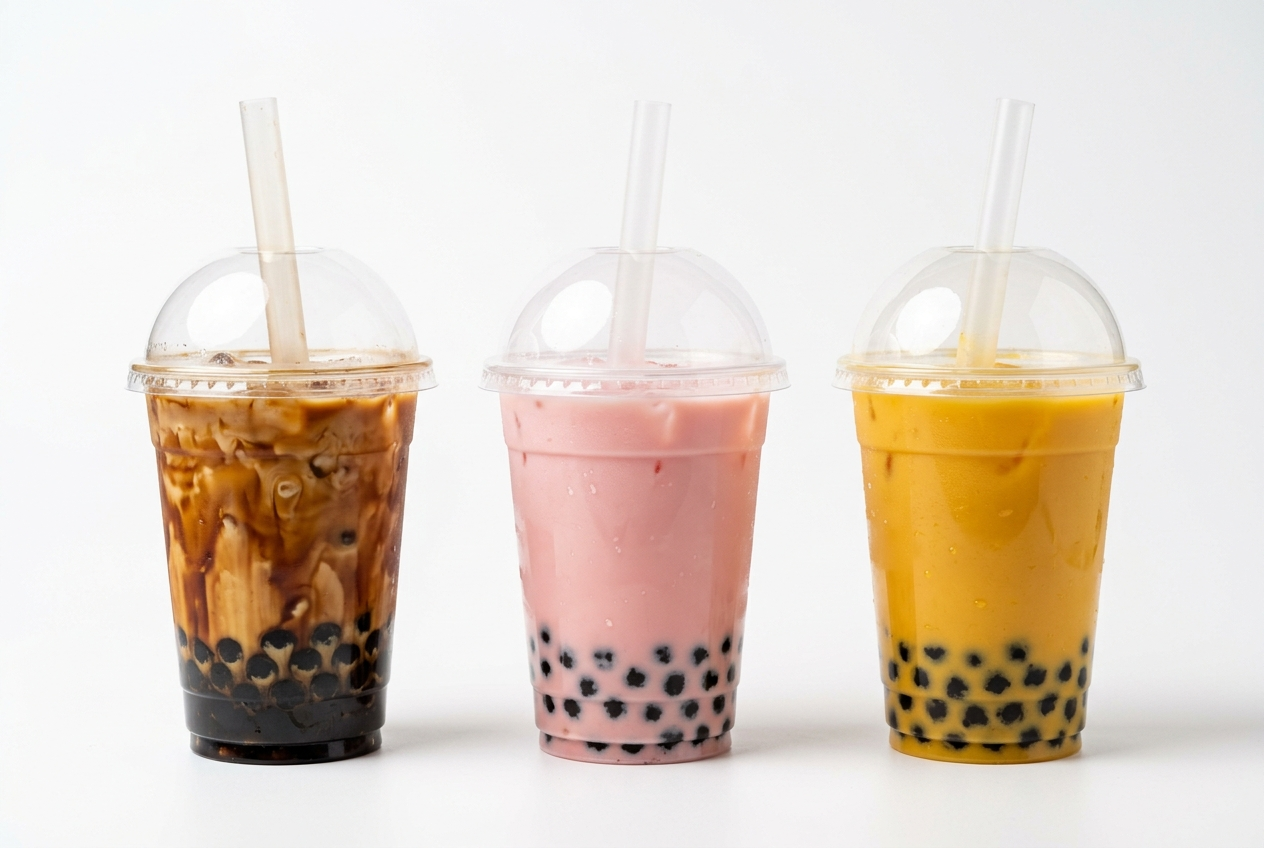
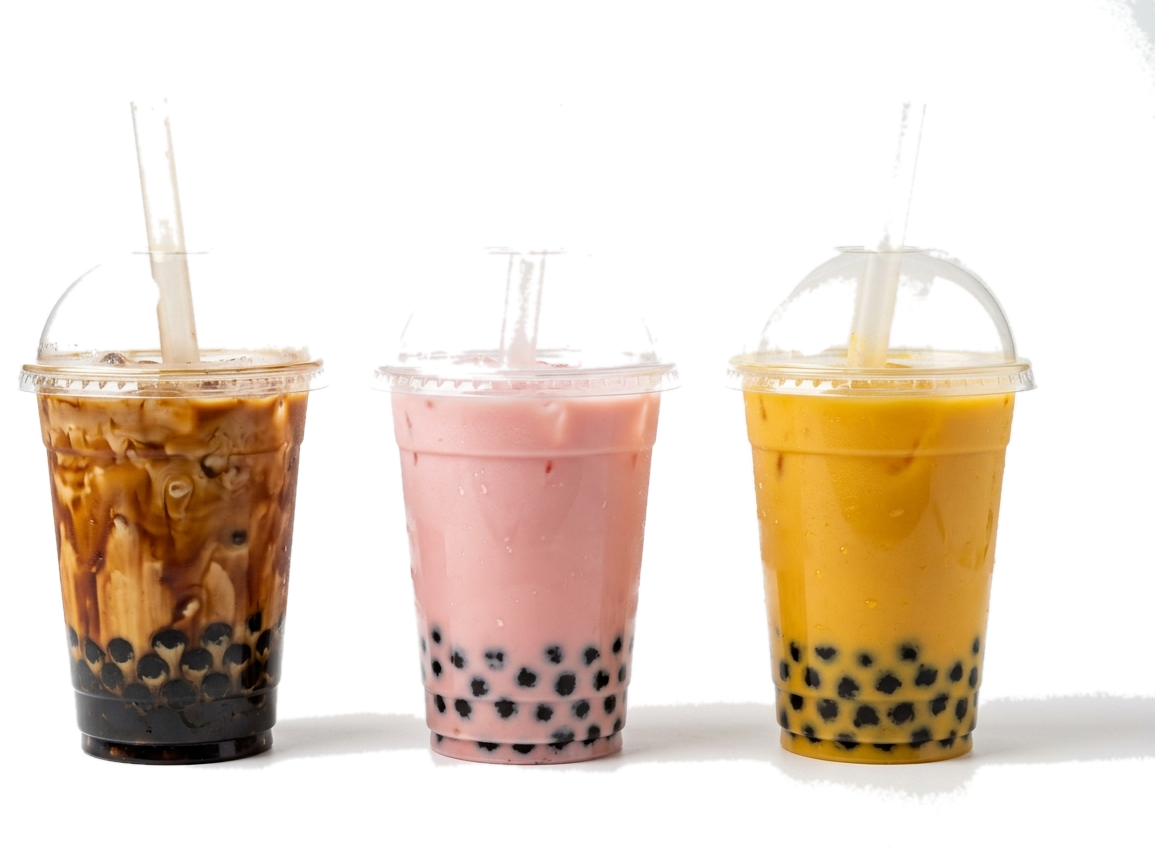
Done. Your card images now truly blend with the cards, and the layout mirrors your reference.
## Image Blending Fixed + Layout Matched
- **Removed the pasted-rectangle look**: I generated clean product photos, then programmatically **stripped their white backgrounds to transparent** (edge flood-fill + large enclosed-pocket removal for the clear boba lids, with feathered edges). The products now float directly on the cards with soft grounded drop-shadows — no visible image box, no crop, no stray labels.
- **Applied everywhere**: home category cards and the wide menu-page banners both use the transparent products on the reference's light-lavender/white surfaces.
- **Layout stays faithful** to your reference (header, hero, filter pills, 4 cards, highlights strip, footer) and **all functionality is unchanged** (category filter, VIEW buttons, order modal, hidden `/admin` editor, Save/Publish). Original white-background versions are safely backed up in `public/assets/_white_src/`.

One realistic note: the boba's clear plastic domes stay faintly visible on purpose — that's the see-through lid, not an artifact.

### Next Action Items
- **Your Real Photos**: Send your own product shots and I'll background-remove + drop them in so it's 100% your shop
- **Tune The Blend**: Tell me if you'd prefer pure-white cards or a soft lavender tint behind the products
- **Go Live**: Push to GitHub and deploy on Vercel to put the site online for customers
- **Photo Gallery**: Add a scrolling gallery of your treats to make the homepage even more mouth-watering

diff --git a/frontend/src/styles.css b/frontend/src/styles.css
@@ -69,8 +69,8 @@
 .menu-card{border:1px solid var(--line);border-radius:24px;padding:20px 18px 18px;text-align:center;background:#fff;box-shadow:var(--shadow);transition:transform .3s,box-shadow .3s}
 .menu-card:hover{transform:translateY(-8px);box-shadow:0 26px 54px rgba(94,53,165,.2)}
 .menu-card h3{font-size:1.12rem;color:var(--purple);margin:0 0 12px;display:flex;align-items:center;justify-content:center;gap:8px}
-.image-box{height:180px;overflow:hidden;display:flex;align-items:center;justify-content:center;border-radius:16px;background:#fff}
-.image-box img{max-width:100%;max-height:100%;width:auto;height:auto;object-fit:contain;transition:transform .4s}
+.image-box{height:190px;display:flex;align-items:center;justify-content:center;border-radius:16px;background:transparent}
+.image-box img{max-width:100%;max-height:100%;width:auto;height:auto;object-fit:contain;filter:drop-shadow(0 16px 14px rgba(94,53,165,.16));transition:transform .4s}
 .menu-card:hover .image-box img{transform:scale(1.07) rotate(-2deg)}
 .menu-card p{font-size:.92rem;margin:12px 0 14px;color:var(--muted);min-height:40px}
 .view-btn{border:0;background:linear-gradient(135deg,var(--purple),var(--purple2));color:#fff;font-weight:900;border-radius:999px;padding:11px 22px;font-size:.8rem;letter-spacing:.03em;display:inline-flex;align-items:center;gap:7px;transition:transform .25s,box-shadow .25s}
@@ -99,8 +99,8 @@
 .category-heading .eyebrow{display:flex;align-items:center;gap:8px}
 .category-heading h2{font-size:clamp(1.8rem,3.4vw,2.6rem);margin:0;color:var(--deep)}
 .back-top{border:0;background:none;color:var(--purple);font-weight:900;font-size:.82rem;display:inline-flex;align-items:center;gap:6px}
-.category-banner{width:100%;height:260px;border-radius:26px;border:1px solid var(--line);overflow:hidden;margin-bottom:28px;background:#fff;display:flex;align-items:center;justify-content:center}
-.category-banner img{max-width:100%;max-height:100%;width:auto;height:auto;object-fit:contain}
+.category-banner{width:100%;height:280px;border-radius:26px;border:1px solid var(--line);overflow:hidden;margin-bottom:28px;background:linear-gradient(135deg,#f9f5ff,#f1e8ff);display:flex;align-items:center;justify-content:center}
+.category-banner img{max-width:78%;max-height:82%;width:auto;height:auto;object-fit:contain;filter:drop-shadow(0 18px 16px rgba(94,53,165,.18))}
 .product-grid{display:grid;grid-template-columns:repeat(4,1fr);gap:22px}
 .product-card{border:1px solid var(--line);border-radius:22px;padding:16px;background:#fff;box-shadow:var(--shadow);transition:transform .3s,box-shadow .3s;height:100%}
 .product-card:hover{transform:translateY(-6px);box-shadow:0 24px 48px rgba(94,53,165,.18)}

diff --git a/memory/PRD.md b/memory/PRD.md
@@ -25,6 +25,7 @@ Build an interactive restaurant website for "Mochi Heaven" following an exact pr
 
 ## Implemented (2026-06)
 - Homepage matching reference: hero (logo, MOCHI HEAVEN title, lead, VISIT US, customer favorite), interactive category filter, 4 category cards with VIEW buttons, feature/highlights strip.
+- Card/banner product images: generated on white, then background-removed to transparent PNGs (flood-fill from edges + large enclosed pockets, feathered) so products float and blend on cards with soft drop-shadows (no cropped/pasted look). White source backups in public/assets/_white_src.
 - Menu, About, Visit pages with editable placeholders; footer; order modal.
 - Hidden password-protected admin editor with Save/Publish/Import/Reset/Change-password.
 - Uses provided logo across header/footer/admin/favicon.
